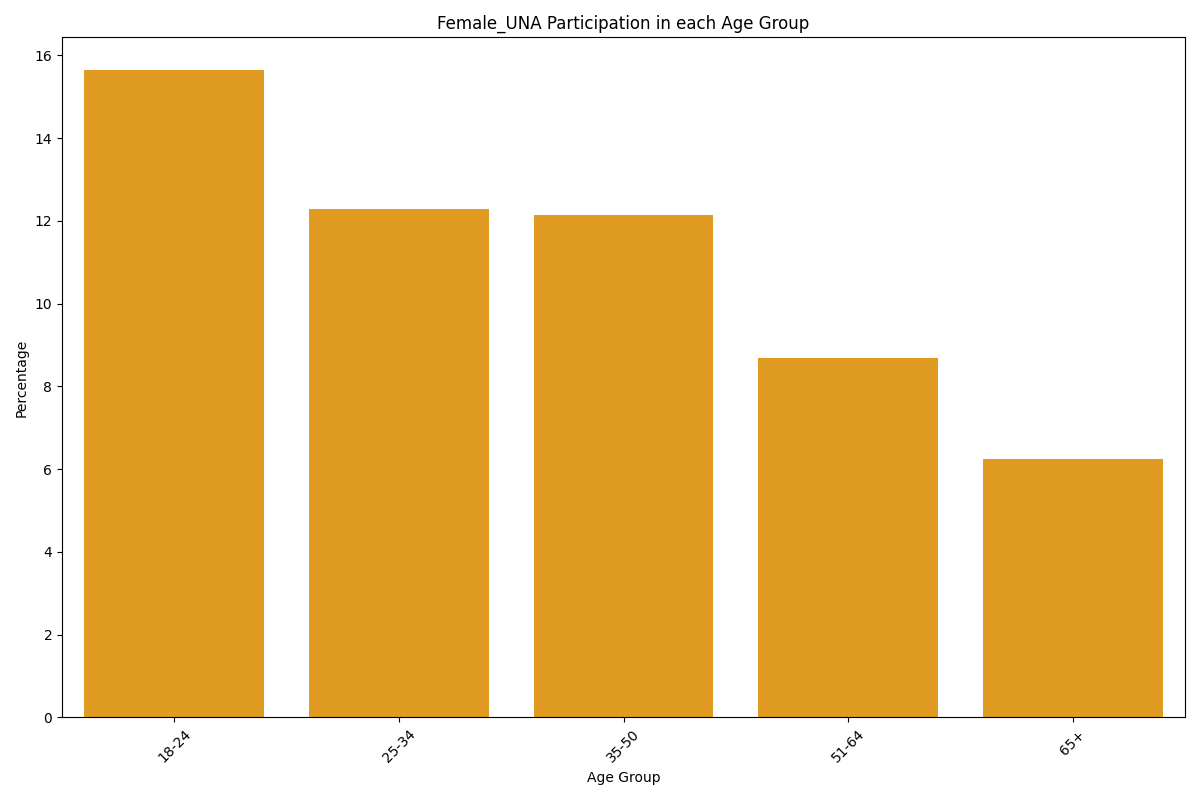
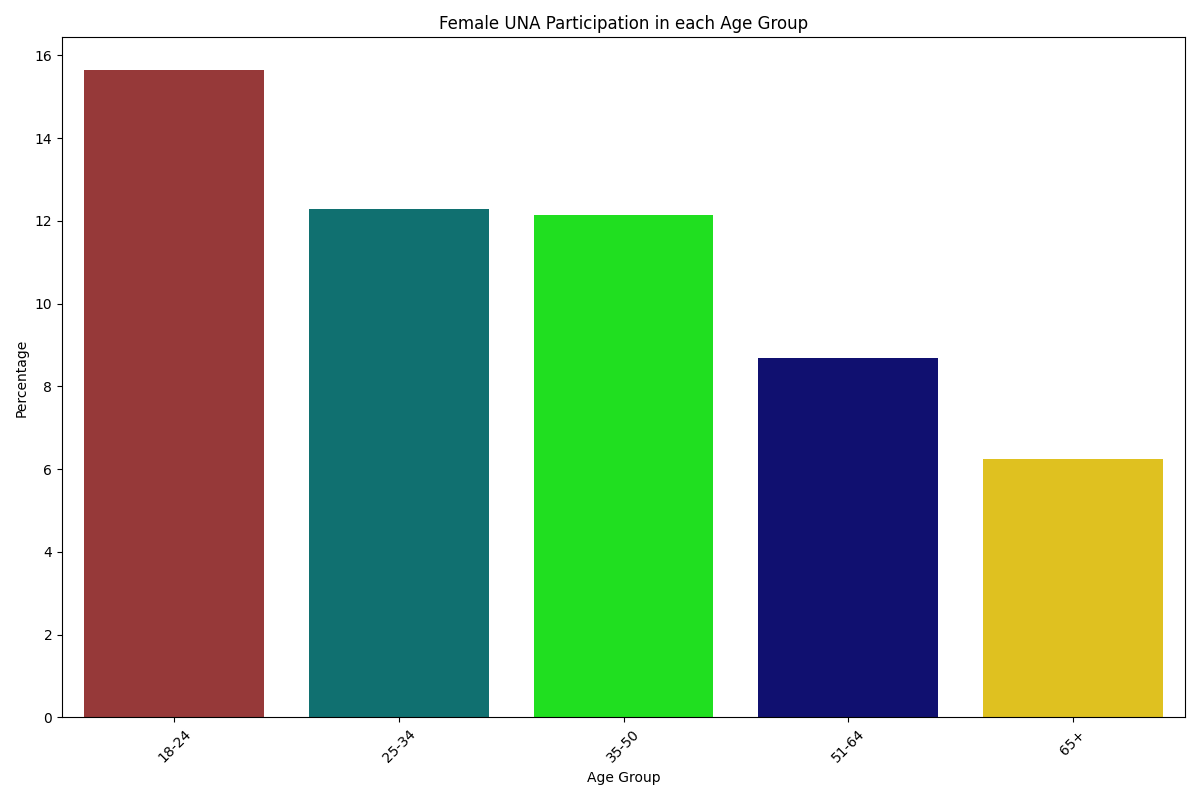
created interactive charts

diff --git a/voters/md_voter_file.txt/reshape_data9.py b/voters/md_voter_file.txt/reshape_data9.py
@@ -1,10 +1,5 @@
 import pandas as pd
-import matplotlib
-import matplotlib.pyplot as plt
-import seaborn as sns
-
-# Set the matplotlib backend to Agg for headless environments
-matplotlib.use('Agg')
+import plotly.express as px
 
 # Load the data from the CSV file
 df = pd.read_csv('agg_MD.csv')
@@ -27,23 +22,24 @@ male_rep_merged = pd.merge(male_rep_data, total_counts, on='age_bracket')
 # Calculate the percentage of Male_REP relative to the total for each age bracket
 male_rep_merged['Percentage'] = (male_rep_merged['Count'] / male_rep_merged['Total']) * 100
 
-# Define a custom color palette with distinct colors for each age group
-custom_palette = ['brown', 'teal', 'lime', 'navy', 'gold']
-
-# Plot the data using seaborn
-plt.figure(figsize=(12, 8))
-sns.barplot(
-    data=male_rep_merged, 
+# Create an interactive bar chart using Plotly
+fig = px.bar(
+    male_rep_merged, 
     x='age_bracket', 
-    y='Percentage', 
-    palette=custom_palette
+    y='Percentage',
+    title='Male REP Participation in each Age Group',
+    labels={'Percentage': 'Percentage', 'age_bracket': 'Age Group'},
+    hover_data={'Percentage': ':.2f'},  # Format hover data to two decimal places
+    color='age_bracket',  # Use distinct colors for each age group
+    color_discrete_sequence=px.colors.qualitative.Bold  # Custom color palette
 )
-plt.title('Male REP Participation in each Age Group')
-plt.xticks(rotation=45)
-plt.ylabel('Percentage')
-plt.xlabel('Age Group')
-plt.tight_layout()
 
-# Save the plot to a file instead of displaying it
-plt.savefig('male_rep_percentage_distribution_chart.png')
-print("Chart saved as 'male_rep_percentage_distribution_chart.png'")
+# Update layout for better aesthetics
+fig.update_layout(
+    xaxis_title='Age Group',
+    yaxis_title='Percentage',
+    xaxis_tickangle=-45
+)
+
+# Show the interactive plot
+fig.show()

diff --git a/voters/md_voter_file.txt/reshape_data7.py b/voters/md_voter_file.txt/reshape_data7.py
@@ -27,8 +27,8 @@ female_una_merged = pd.merge(female_una_data, total_counts, on='age_bracket')
 # Calculate the percentage of Female_UNA relative to the total for each age bracket
 female_una_merged['Percentage'] = (female_una_merged['Count'] / female_una_merged['Total']) * 100
 
-# Define a uniform orange color palette
-uniform_palette = ['orange'] * len(female_una_merged['age_bracket'].unique())
+# custom color pallete
+custom_palette = ['brown', 'teal', 'lime', 'navy', 'gold']
 
 # Plot the data using seaborn
 plt.figure(figsize=(12, 8))
@@ -36,9 +36,9 @@ sns.barplot(
     data=female_una_merged, 
     x='age_bracket', 
     y='Percentage', 
-    palette=uniform_palette
+    palette=custom_palette
 )
-plt.title('Female_UNA Participation in each Age Group')
+plt.title('Female UNA Participation in each Age Group')
 plt.xticks(rotation=45)
 plt.ylabel('Percentage')
 plt.xlabel('Age Group')

diff --git a/voters/md_voter_file.txt/reshape_data8.py b/voters/md_voter_file.txt/reshape_data8.py
@@ -28,7 +28,7 @@ male_una_merged = pd.merge(male_una_data, total_counts, on='age_bracket')
 male_una_merged['Percentage'] = (male_una_merged['Count'] / male_una_merged['Total']) * 100
 
 # Define a uniform green color palette
-uniform_palette = ['green'] * len(male_una_merged['age_bracket'].unique())
+custom_palette = ['brown', 'teal', 'lime', 'navy', 'gold']
 
 # Plot the data using seaborn
 plt.figure(figsize=(12, 8))
@@ -36,9 +36,9 @@ sns.barplot(
     data=male_una_merged, 
     x='age_bracket', 
     y='Percentage', 
-    palette=uniform_palette
+    palette=custom_palette
 )
-plt.title('Male_UNA Participation in each Age Group')
+plt.title('Male UNA Participation in each Age Group')
 plt.xticks(rotation=45)
 plt.ylabel('Percentage')
 plt.xlabel('Age Group')

diff --git a/voters/md_voter_file.txt/reshape_data2.py b/voters/md_voter_file.txt/reshape_data2.py
@@ -28,7 +28,7 @@ female_rep_merged = pd.merge(female_rep_data, total_counts, on='age_bracket')
 female_rep_merged['Percentage'] = (female_rep_merged['Count'] / female_rep_merged['Total']) * 100
 
 # Define a custom color palette with distinct colors for each age group
-custom_palette = ['cyan', 'magenta', 'yellow', 'black', 'pink']
+custom_palette = ['brown', 'teal', 'lime', 'navy', 'gold']
 
 # Plot the data using seaborn
 plt.figure(figsize=(12, 8))
@@ -38,7 +38,7 @@ sns.barplot(
     y='Percentage', 
     palette=custom_palette
 )
-plt.title('Female_REP Participation for Each Age Group')
+plt.title('Female REP Participation for Each Age Group')
 plt.xticks(rotation=45)
 plt.ylabel('Percentage')
 plt.xlabel('Age Group')

diff --git a/voters/md_voter_file.txt/reshape_data1.py b/voters/md_voter_file.txt/reshape_data1.py
@@ -28,7 +28,7 @@ female_dem_merged = pd.merge(female_dem_data, total_counts, on='age_bracket')
 female_dem_merged['Percentage'] = (female_dem_merged['Count'] / female_dem_merged['Total']) * 100
 
 # Define a custom color palette with distinct colors for each age group
-custom_palette = ['red', 'green', 'blue', 'orange', 'purple']
+custom_palette = ['brown', 'teal', 'lime', 'navy', 'gold']
 
 # Plot the data using seaborn
 plt.figure(figsize=(12, 8))
@@ -38,7 +38,7 @@ sns.barplot(
     y='Percentage', 
     palette=custom_palette
 )
-plt.title('Female_DEM Participation for each Age Group')
+plt.title('Female DEM Participation for each Age Group')
 plt.xticks(rotation=45)
 plt.ylabel('Percentage')
 plt.xlabel('Age Group')

diff --git a/voters/md_voter_file.txt/reshape_data6.py b/voters/md_voter_file.txt/reshape_data6.py
@@ -28,7 +28,7 @@ male_dem_merged = pd.merge(male_dem_data, total_counts, on='age_bracket')
 male_dem_merged['Percentage'] = (male_dem_merged['Count'] / male_dem_merged['Total']) * 100
 
 # Define a custom color palette with distinct colors for each age group
-custom_palette = ['violet', 'turquoise', 'salmon', 'olive', 'maroon']
+custom_palette = ['brown', 'teal', 'lime', 'navy', 'gold']
 
 # Plot the data using seaborn
 plt.figure(figsize=(12, 8))
@@ -38,7 +38,7 @@ sns.barplot(
     y='Percentage', 
     palette=custom_palette
 )
-plt.title('Male_DEM Participation in each Age Group')
+plt.title('Male DEM Participation in each Age Group')
 plt.xticks(rotation=45)
 plt.ylabel('Percentage')
 plt.xlabel('Age Group')
